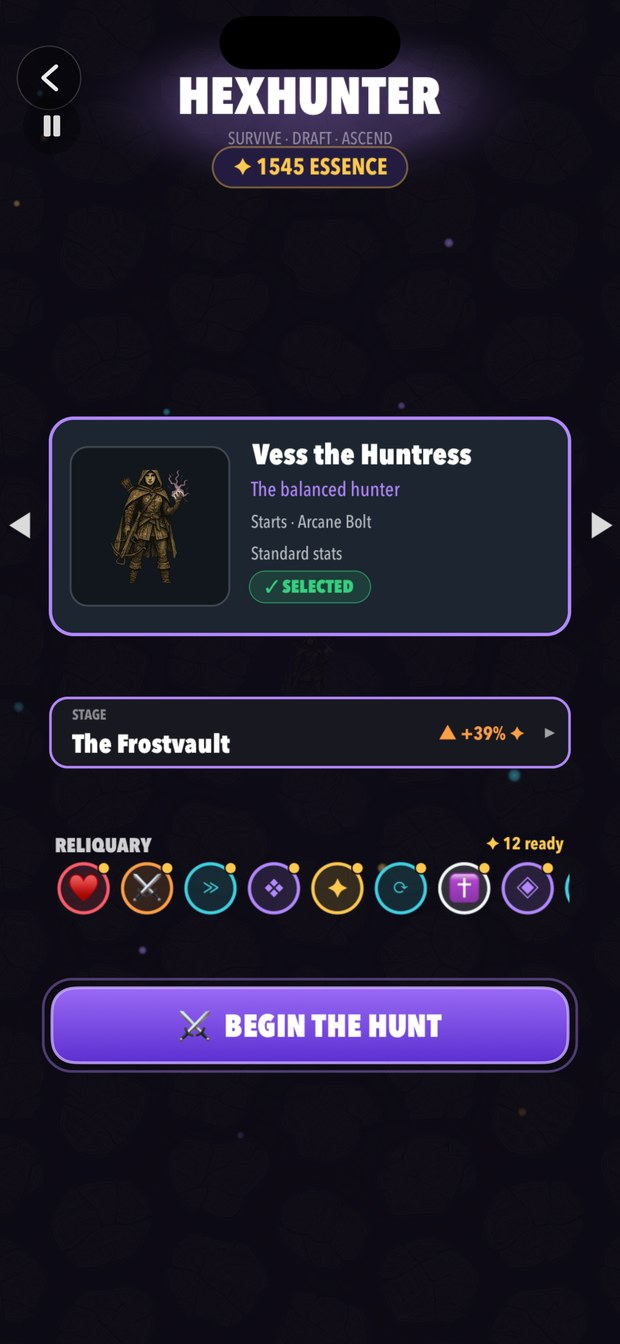
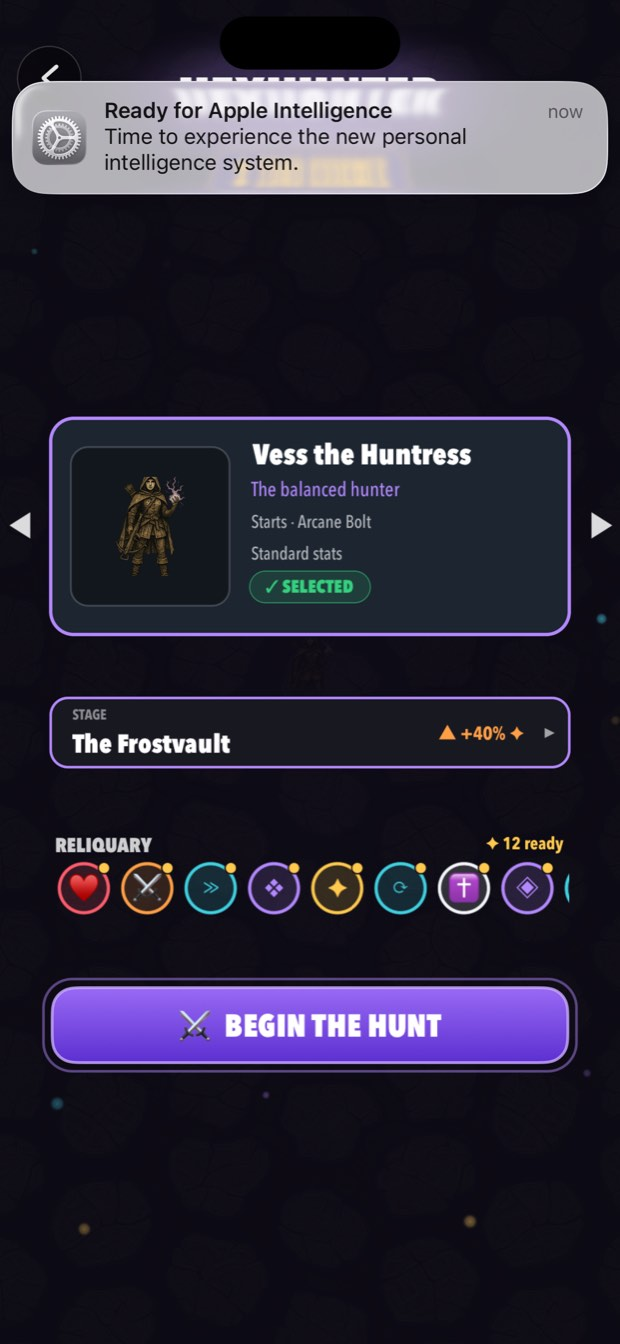
Reshoot the loadout screenshot now that the essence bonus reads +40%
The Frostvault grants +40% essence and always did — players received it. Only
the lobby LABEL was wrong: it built the percentage with Int((1.4 - 1) * 100),
and 1.4 in binary64 is 1.3999…, so the truncation printed 39. The shot on the
site inherited that and the alt text asserted it in words.

Reshot from the fixed build at the original pose and resolution: same 1545
essence, same Vess selected, same Frostvault row, same reliquary with 12 ready,
1290x2796 on the same device class so the 620x1344 img dimensions still hold.
Alt text now says +40%, and the ?v= token moves to 20260809a — without that
bump browsers keep serving the +39% image from cache and the fix is invisible.

NOT DEPLOYED. Hexhunter build 2 is in review and still prints 39 on a phone;
pushing this before the next build ships would put a claim on the site that the
shipped app does not honour. Push both repos when the build with the fix is
live, not before.

diff --git a/index.html b/index.html
@@ -751,7 +751,7 @@
         </div>
         <div class="showcase-media">
           <div class="phone-row single">
-            <figure class="screen-card"><div class="screen-frame"><img src="assets/screens/screen-lobby2.jpg?v=20260717a" alt="Stage selection on the loadout screen with the Frostvault chosen, showing a +39% essence bonus" loading="lazy"></div><figcaption><div class="screen-kind">Descent</div><div class="screen-name">Choose your stage</div></figcaption></figure>
+            <figure class="screen-card"><div class="screen-frame"><img src="assets/screens/screen-lobby2.jpg?v=20260809a" alt="Stage selection on the loadout screen with the Frostvault chosen, showing a +40% essence bonus" loading="lazy"></div><figcaption><div class="screen-kind">Descent</div><div class="screen-name">Choose your stage</div></figcaption></figure>
           </div>
         </div>
       </div>
